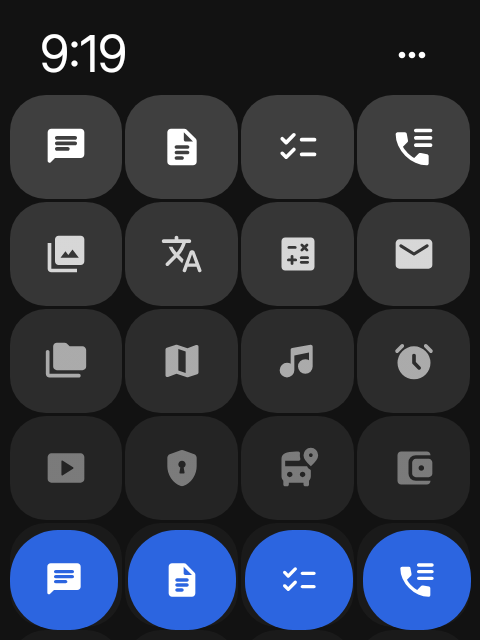
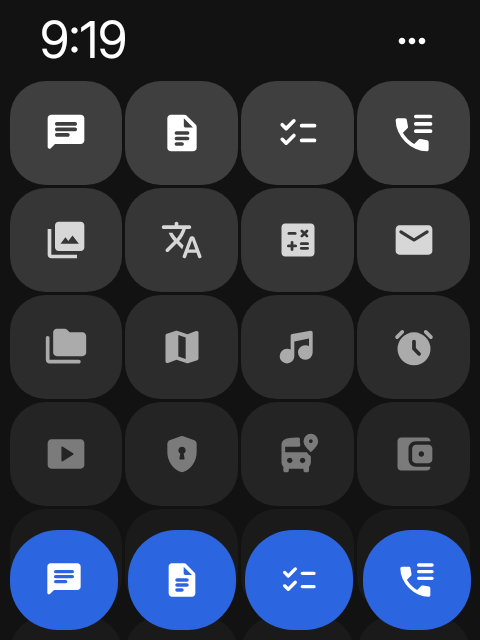
feat(compact): fit the header to one title line
Drop the 14 dp inset above the compact title and make the header exactly the 61 dp title line, so the body starts 14 dp higher. Update the compact body-shift expectation and refresh the compact screenshots.

diff --git a/sidekit/src/main/java/hrln/interactive/sidekit/design/theme/SidekitDimens.kt b/sidekit/src/main/java/hrln/interactive/sidekit/design/theme/SidekitDimens.kt
@@ -36,14 +36,14 @@ data class SidekitSpacing(
 ) {
     companion object {
         /**
-         * The measured Figma sizes, except the top and bottom chrome: the header title sits 14
-         * above its line box (a 75 tall header, 28 less than the mock) and the action bar is 12
+         * The measured Figma sizes, except the top and bottom chrome: the header is exactly one
+         * title line (61) with no inset above it (28 less than the mock) and the action bar is 12
          * shorter. Slightly tighter insets buy body space on the 480 x 640 display without
          * touching the type scale. Chosen from Settings → Compact layout.
          */
         val Compact: SidekitSpacing = SidekitSpacing(
-            headerPaddingTop = 14.dp,
-            headerHeight = 75.dp,
+            headerPaddingTop = 0.dp,
+            headerHeight = 61.dp,
             actionBarHeight = 100.dp
         )
     }

diff --git a/app/src/test/java/hrln/interactive/sidekit/apps/settings/SettingsUiTest.kt b/app/src/test/java/hrln/interactive/sidekit/apps/settings/SettingsUiTest.kt
@@ -101,8 +101,8 @@ class SettingsUiTest {
         compose.mainClock.advanceTimeBy(1000)
         compose.onRoot().captureRoboImage("screenshots/settings_compact.png")
         val compactTop = compose.onNodeWithText("Launcher default").getUnclippedBoundsInRoot().top
-        // Header 103 -> 75, so the body starts 28 dp higher (1 dp == 1 px on this canvas).
-        assertEquals(28f, (bodyTop - compactTop).value, 1f)
+        // Header 103 -> 61, so the body starts 42 dp higher (1 dp == 1 px on this canvas).
+        assertEquals(42f, (bodyTop - compactTop).value, 1f)
     }
 
     @Test fun `system settings live on their own page`() {

diff --git a/app/src/test/java/hrln/interactive/sidekit/ui/ScreenshotTest.kt b/app/src/test/java/hrln/interactive/sidekit/ui/ScreenshotTest.kt
@@ -53,7 +53,7 @@ class ScreenshotTest {
 
     @Test fun launcherList() = shoot("launcher_list_36-2", launcher(LauncherUiState(layout = LauncherLayout.List)))
 
-    /** The same frame with Settings → Compact layout on: header 75 instead of 103, bar 100 instead of 112. */
+    /** The same frame with Settings → Compact layout on: header 61 instead of 103, bar 100 instead of 112. */
     @Test fun launcherGridCompact() {
         compose.setContent {
             hrln.interactive.sidekit.design.theme.SidekitTheme(
